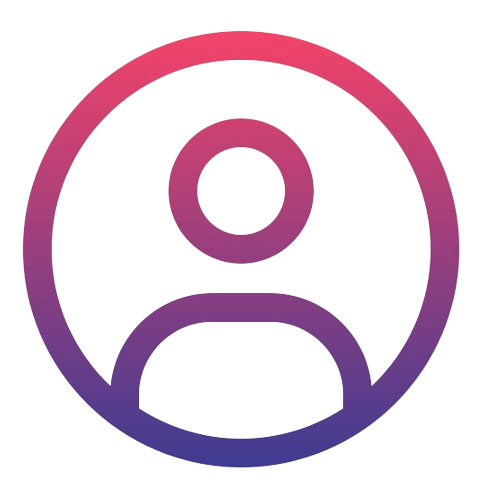
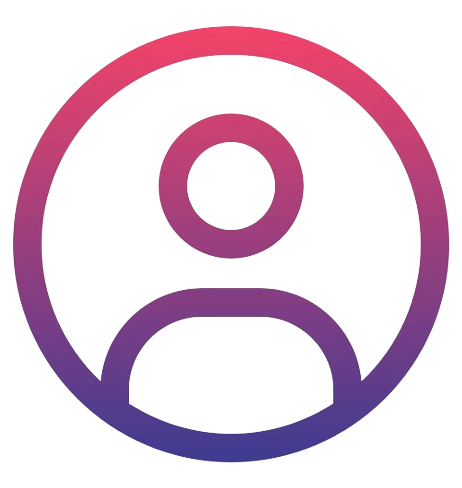
.

diff --git a/src/main/resources/templates/mstar/mainListPage.html b/src/main/resources/templates/mstar/mainListPage.html
@@ -1732,9 +1732,9 @@
                 
                 </div>
             </div>
-            <div class="row fixed-bottom text-end" style="bottom: 5em;">
-                <di class="col">
-                    <img onclick="location.href='/mstar/profilePage'" class="img-fluid rounded-circle px-0 py-0" src="/public/image/mstar/goProfilePage.png" alt="" style="height: 4rem;">
+            <div class="row fixed-bottom text-end px-4" style="bottom: 5em;">
+                <di class="col px-0 py-0">
+                    <img onclick="location.href='/mstar/profilePage'" class="img-fluid px-0 py-0" src="/public/image/mstar/goProfilePage.png" alt="" style="height: 3.3rem; aspect-ratio: 1/1;">
                 </div>
             </div>
         </div>
@@ -2120,7 +2120,7 @@
         
         <div id="articleImgTemplete" class="d-none">
             <div class="carousel-item articleImgWrapper">
-                <img class="d-block w-100 img" alt="..." style="height: 30em;">
+                <img class="d-block w-100 img" alt="..." style="height: 25em;">
                 <div class="col-auto position-absolute fs-3" style="color: #3f4041; position: absolute; top: 87%; left: 3%; opacity: 0.7">
                     <i id="" class="fa-solid fa-circle-user rounded-circle checkTag d-none" style="background-color: rgb(165, 163, 163);"></i>
                 </div>

diff --git a/src/main/resources/templates/mstar/profileArticleListPage.html b/src/main/resources/templates/mstar/profileArticleListPage.html
@@ -24,7 +24,15 @@
 
                 
             }
-
+            function getUserDto(){
+                const url = "/mstar/getUserDto"
+                fetch(url)
+                .then(response => response.json())
+                .then((response) =>{
+                    const articleListUserid = document.querySelector("#articleListUserid");
+                    articleListUserid.innerText = response.data.userid+" 님의";
+                });
+            }
             let profileInfoDto = null;
             function getProfileInfoDto(){
                 const url = "./myProfileInfoDto?user_pk="+user_pk;
@@ -928,6 +936,7 @@
             window.addEventListener("DOMContentLoaded", () =>{
                 getProfileInfoKey();
                 getProfileInfoDto();
+                getUserDto();
             });
         </script>
         <style>

diff --git a/src/main/resources/templates/commons/mainPage.html b/src/main/resources/templates/commons/mainPage.html
@@ -579,7 +579,7 @@
                             <div class="col">
                                 <div class="row d-flex" style="flex-wrap: nowrap;">
                                     <div class="col-4 me-1">
-                                        <img class="img-fluid" src="/public/image/commons/banner2.png" alt="" style="height: auto;">
+                                        <img class="img-fluid" src="/public/image/commons/banner1.png" alt="" style="height: auto;">
                                     </div>
                             <th:block th:if="${sizeList != 0}">
                                 <th:block th:each="fund : ${selectFundingMainList}">
